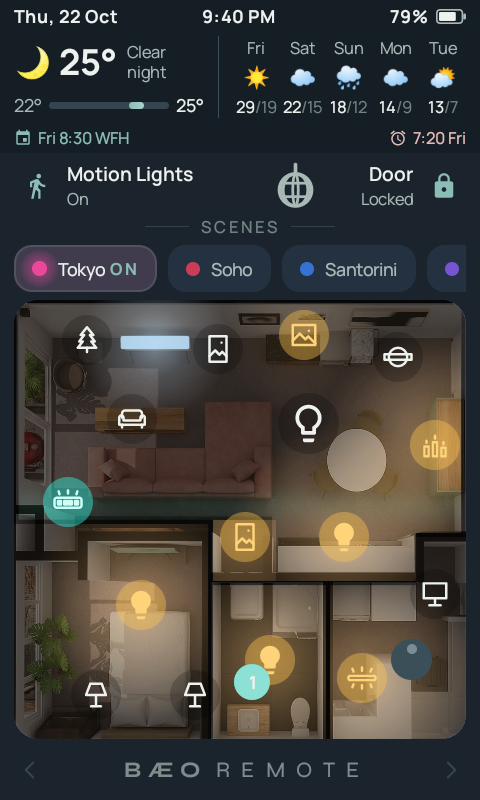
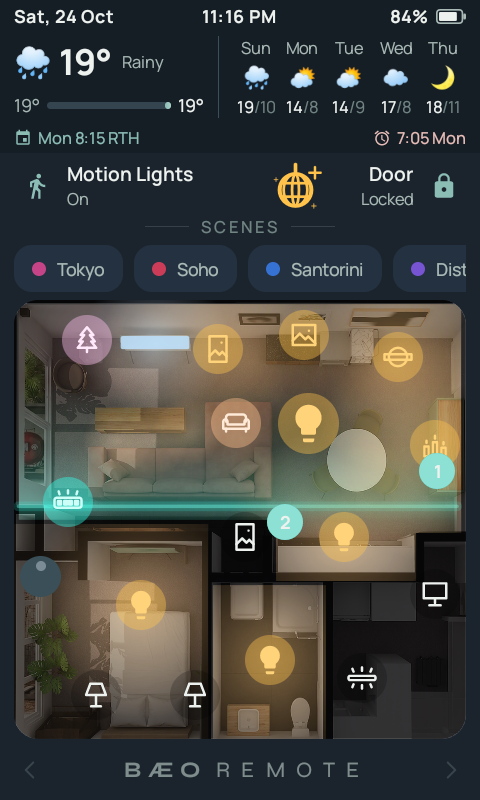
README: new floorplan lighting screenshots, day to night
Fresh shots from 113 on the current build. The lighting grid is now day,
dusk and night against the living room off, an evening mix and
everything on (bathroom included at night). New main, day, dusk and
night screens, and the section text covers the cove strip and the TV on
the PC input.

Day and dusk were taken at night with the floorplan's shade settings
standing in for the sun; night is the real thing.

diff --git a/README.md b/README.md
@@ -63,15 +63,17 @@ Holding **Menu ☰** opens a guide for anyone picking the remote up for the firs
 
 ### Dynamic Floorplan & LitRooms Lighting
 
-The interactive floorplan dynamically responds to solar elevation and lighting state, shifting seamlessly between Day, Dusk, and Night:
+The floorplan follows the sun and every light in the flat. As the sun drops, a shade darkens the plan, and each light that is on lifts it again with a pool of its own colour and brightness, so the plan looks like the room does.
 
-![LitRooms Dynamic Lighting States](screenshots/lit-rooms.png)
+![The floorplan by day, at dusk and at night, with the living room off, an evening mix, and everything on](screenshots/lit-rooms.png)
 
-| Day (Solar Off) | Dusk (Twilight Shading) | Night (Atmospheric Glow) |
+| Day | Dusk | Night |
 |---|---|---|
-| ![Floorplan Day](screenshots/floorplan-day.png) | ![Floorplan Dusk](screenshots/floorplan-dusk.png) | ![Floorplan Night](screenshots/floorplan-night.png) |
+| ![Floorplan by day](screenshots/floorplan-day.png) | ![Floorplan at dusk](screenshots/floorplan-dusk.png) | ![Floorplan at night](screenshots/floorplan-night.png) |
 
-* **Atmospheric Shading:** Sun-synchronized ambient floor shading with automatic light halos that illuminate rooms when active.
+* **Sun-synced shading:** the shade eases in through civil twilight, from sun.sun's elevation. Light pools are faint by day and come up with the dark.
+* **Lights as they look:** pools take each light's colour and brightness. The Club LED is a cove strip on a rail under the ceiling, so it draws as a dim rail with a wash of its colour spilling into the room (`glow_line`, `glow_toward`).
+* **Screens:** the TV lights up on the plan while it is on, including on the PC input (`also_on`).
 * **Interactive Control:** Tap any bulb to toggle room lighting, or long-press to open the full-screen brightness and color tuning slider.
 * **mmWave Radar Presence:** Real-time target tracking dots driven by LD2450 sensors plotted over the apartment layout.
 
